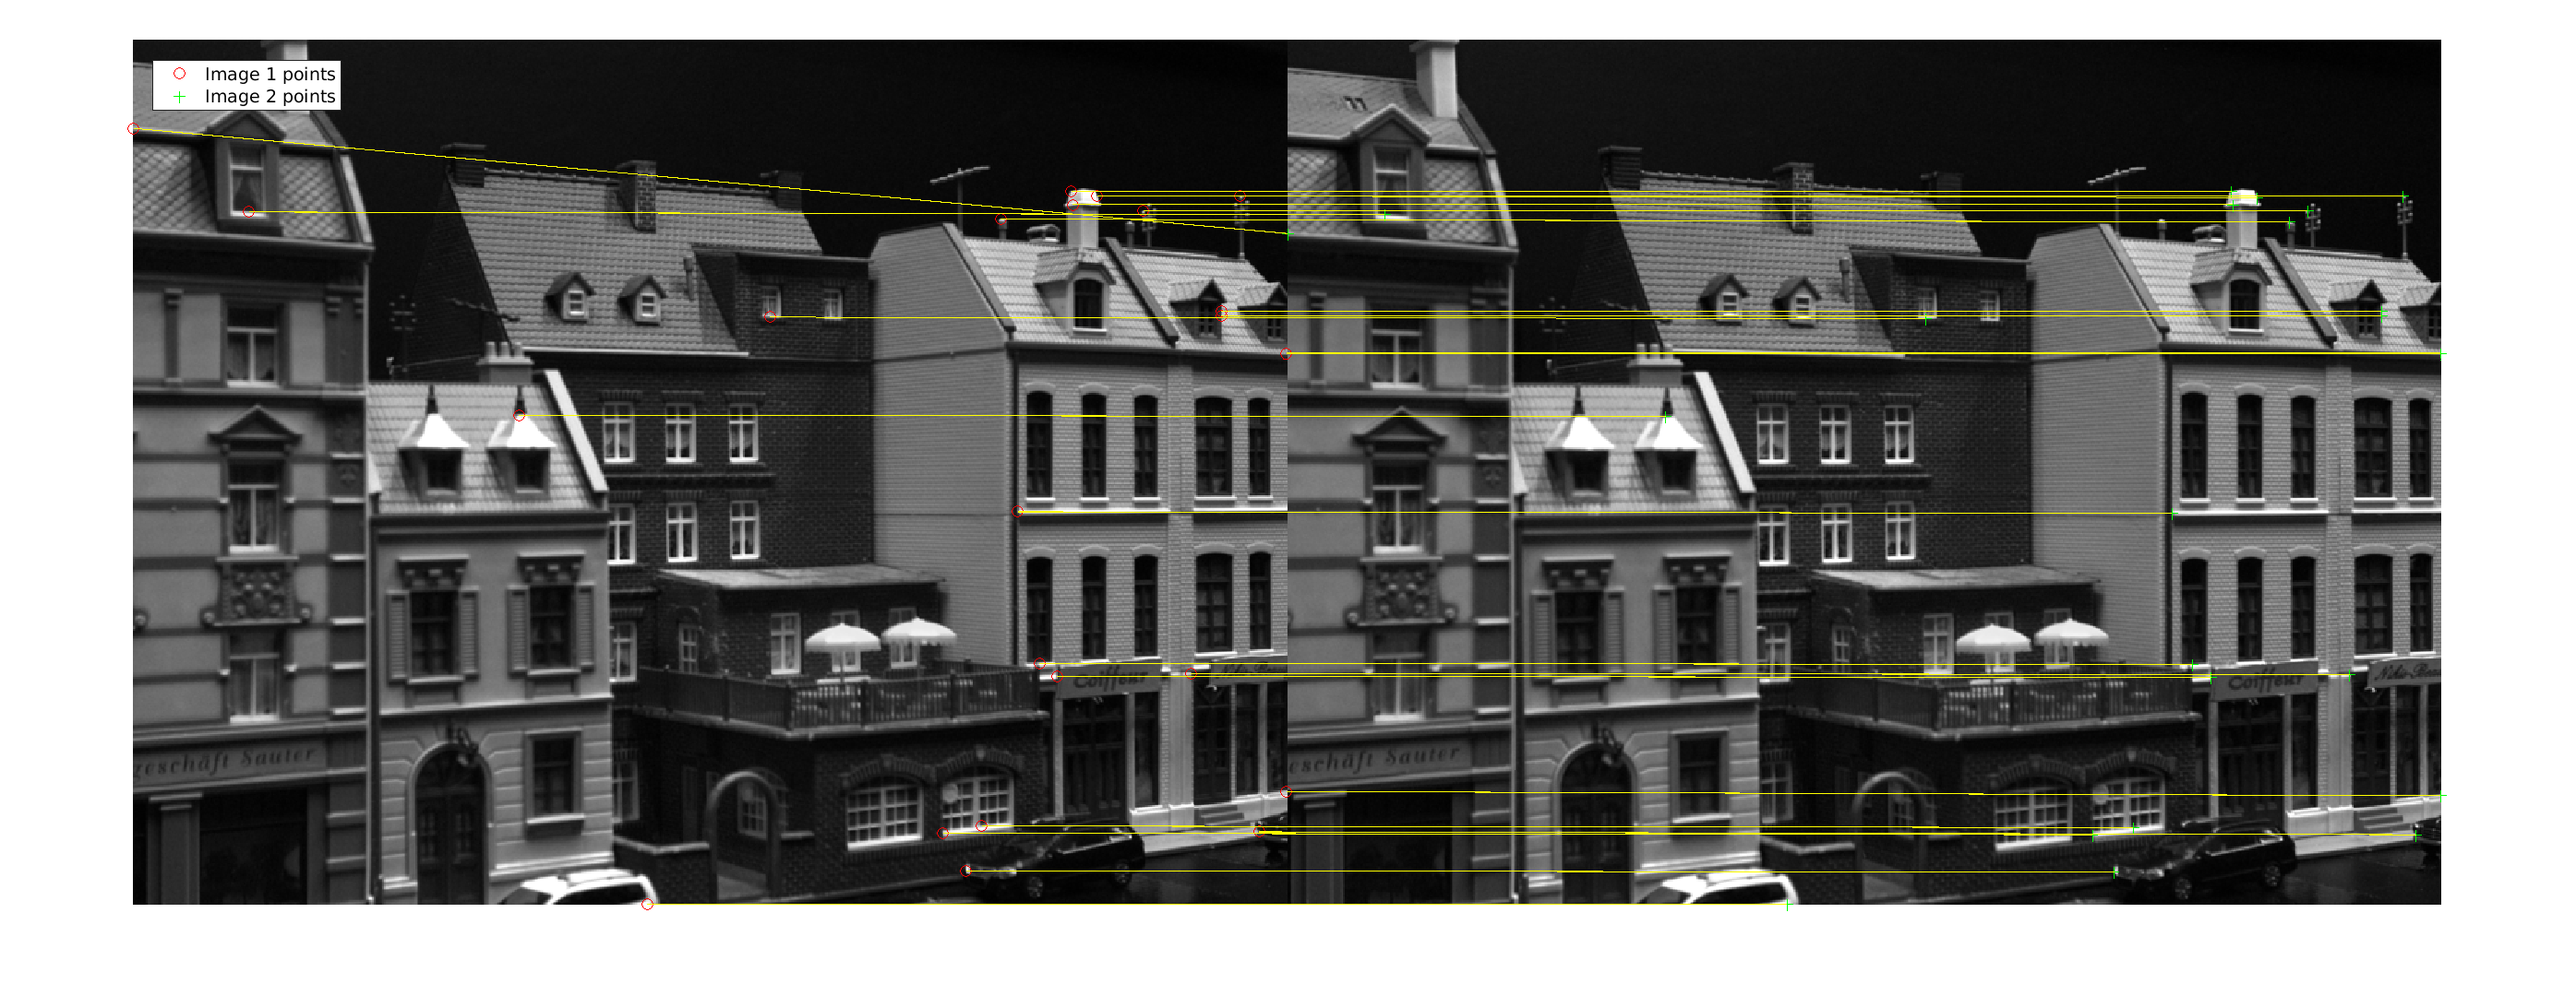
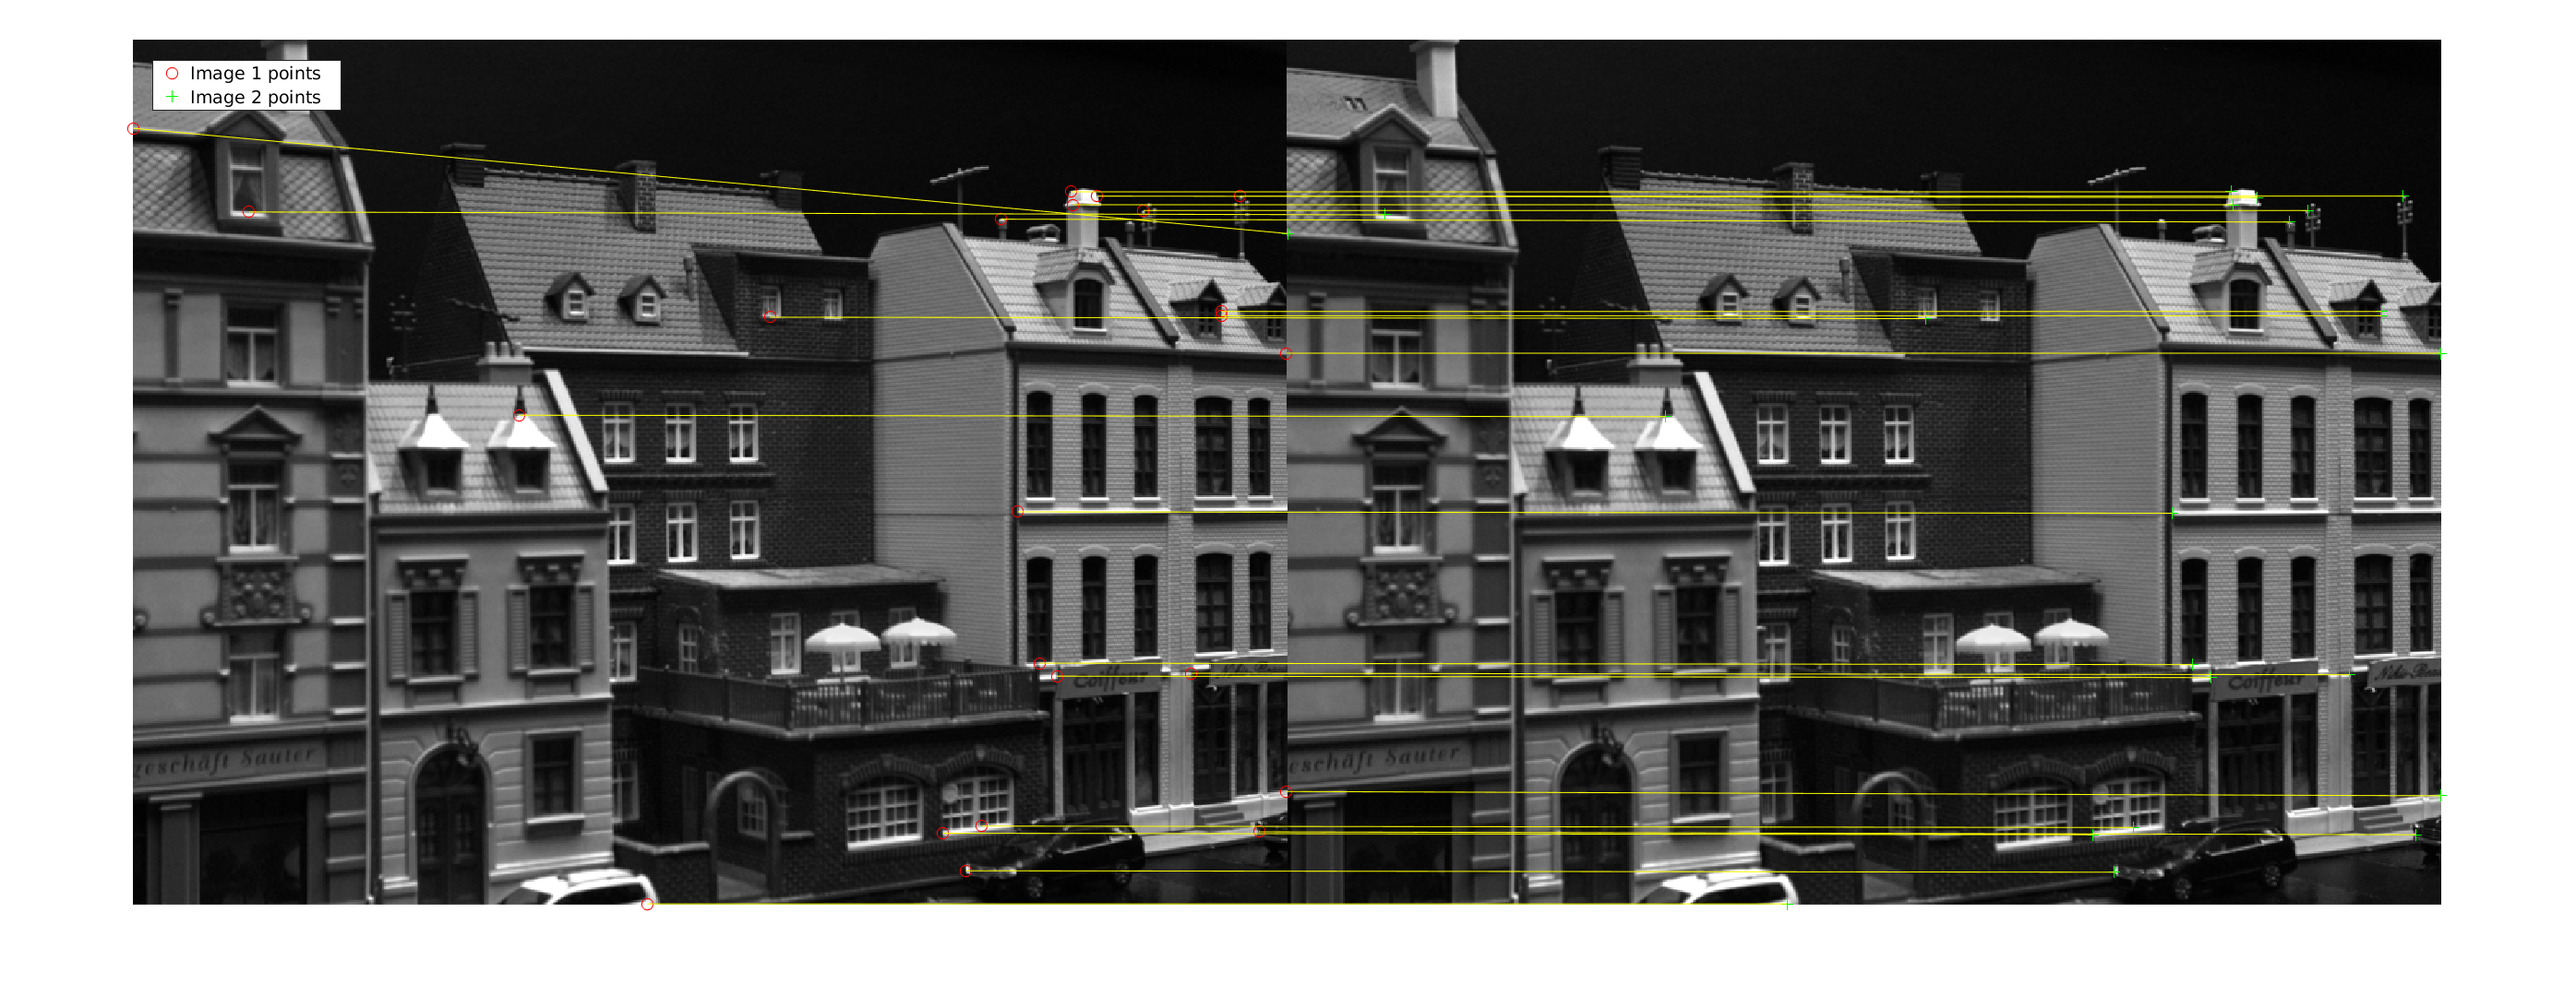
Some report parts, minor changes to code

diff --git a/assignment2/report.tex b/assignment2/report.tex
@@ -204,12 +204,12 @@
 %----------------------------------------------------------------------------------------
 %	PROBLEM 1
 %----------------------------------------------------------------------------------------
-\begin{homeworkProblem}[Quick Intro]
-...
+\begin{homeworkProblem}[Programming language and used libraries]
+For this assignment \texttt{Matlab} and its \texttt{Image processing toolbox} have been used. Throughout the assignment code snippets and parts of functions have been reused. We have only reused code that we have written by ourselves.
 \end{homeworkProblem}
 
 \begin{homeworkProblem}[1: Detecting interest points (Features)]
-For the assignment we have chosen to use the Harris corner detector. The implementation has been made by Cecilie for her bachelor's project back in 2016. More precisely, two files with code has been borrowed from this project: \textit{Harris\_corner\_function.m} and \textit{nms.m}.
+For the assignment we have chosen to use the Harris corner detector. The implementation has been made by Cecilie for her bachelor's project back in 2016. More precisely, two files with code has been borrowed from the bachelor project: \textit{Harris\_corner\_function.m} and \textit{nms.m}.
 
 \begin{homeworkSubProblem}[Implementation]
 The Harris corner detector has been implemented in the file \textit{Harris\_corner\_function.m} using gaussian derivatives for the smoothing of the images, prior to the corner detection. \\\\
@@ -218,7 +218,20 @@ The threshold used for discarding vague corners has been set as a parameter that
 \end{homeworkSubProblem}
 
 \begin{homeworkSubProblem}[Experimentation and results]
-...
+We have experimented with the parameter settings for the implemented Harris corner detector, using the following pairs of values:
+\begin{itemize}
+\item t = 0.01, k = 0.04
+\item t = 0.0001, k = 0.04
+\item t = 0.000001, k = 0.04
+\item t = 0.01, k = 0.15
+\item t = 0.0001, k = 0.15
+\item t = 0.000001, k = 0.15
+\item t = 0.01, k = 0.2
+\item t = 0.0001, k = 0.2
+\item t = 0.000001, k = 0.2
+\end{itemize}
+Out of these, we experienced that the value pair giving the best results were $t = 0.0001$, $k = 0.04$. The resulting detection points are shown on top of the images in figure ?-?. In general we experienced that the number of corner points detected goes up, when lowering the threshold variable $t$, while we could not see any visible change when changing the $k$ value (we might not have tried out values from a big enough range, as our experimentation has not been as thourugh as it could be).
+
 \end{homeworkSubProblem}
 
 \end{homeworkProblem}
@@ -237,11 +250,9 @@ For each detected point of interest we must extract information to be used as a 
 \textbf{Matching}\\
 The matching was performed by calculating the difference between all the descriptors across the two images, using sum of squared intensity difference:
 $$SSID(u,v) = \sum_{i=1}^{n}(u_i-v_i)^2$$
-Then for each descriptor in the first image, the descriptor from the second image with the smallest difference is logged as the "match".\\
-Just doing this produced a lot of unwanted matches, so we needed to filter the matches. Besides, multiple descriptors from the first image might match a single descriptor from the second image, which naturally does not make sense.\\
-The first filtering applied is checking whether the second best match for any given descriptor is within some scale of the same difference to the best match. So, if the second best match is not far worse than the best match, then we consider the matches too ambiguous and discard it entirely.\\
-This reduced the number of matches, depending on what scale was used to determine "too ambigous".\\
-The next filter added is doing the exact same as described above, but for all descriptors in the second imaged compared to the descriptors in the first image. If a descriptor from the first image points to a descriptor from the second image, which in turn points to the same descriptor in the first image, then it is kept as a match, else discarded. That it, descriptors must match two-way.\\
+Then for each descriptor in the first image, the descriptor from the second image with the smallest difference is logged as the "match". Just doing this produced a lot of unwanted matches, so we needed to filter the matches. Besides, multiple descriptors from the first image might match a single descriptor from the second image, which naturally does not make sense.\\\\
+The first filtering applied is checking whether the second best match for any given descriptor is within some scale of the same difference to the best match. So, if the second best match is not far worse than the best match, then we consider the matches too ambiguous and discard it entirely.This reduced the number of matches, depending on what scale was used to determine "too ambigous".\\\\
+The next filter added is doing the exact same as described above, but for all descriptors in the second image compared to the descriptors in the first image. If a descriptor from the first image points to a descriptor from the second image, which in turn points to the same descriptor in the first image, then it is kept as a match, else discarded. That it, descriptors must match two-way.\\\\
 Lastly, as a variable parameter, a hard threshold for how similar the matches should be before we keep them. This might be a less useful filter than the previous two; The statistics will show whether this is the case.
 
 \end{homeworkSubProblem}

diff --git a/assignment2/Harris_corner_function.m b/assignment2/Harris_corner_function.m
@@ -1,4 +1,4 @@
-function [ corners ] = Harris_corner_function( im, sigma, sz, t )
+function [ corners ] = Harris_corner_function( im, sigma, sz, t, k )
 % Computes Harris Corner, takes grayscale image im, scale sigma, kernelsize sz and 
 % threshold t as arguments
 
@@ -20,7 +20,7 @@ function [ corners ] = Harris_corner_function( im, sigma, sz, t )
 
     % Create Harris' corner measures for each pixel, 
     % k is set to 0.04 as standard
-    k = 0.04;
+    %k = 0.04;
     cim_matrix = ((Mx2 .* My2 - Mxy.^2) - k * (Mx2 + My2).^2).^2;
     cim_matrix = cim_matrix.^2;
 

diff --git a/assignment2/main.m b/assignment2/main.m
@@ -9,7 +9,7 @@ count = 1;
 for file = files
     I = imread([in_path, file{1}, file{2}]);
     I = double(I);
-    points = Harris_corner_function(I, 1, 25, 0.0001 );
+    points = Harris_corner_function(I, 1, 25, 0.0001, 0.04);
     
     assignin('base', strcat('points_im', num2str(count)), points);
 
